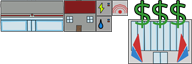
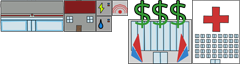
Ajout d'une texture pour l'hopital.

diff --git a/CityBuilderJSFML/src/sim/Sim.java b/CityBuilderJSFML/src/sim/Sim.java
@@ -239,6 +239,7 @@ public class Sim {
 		this.buildingRenderer.setTextureRect(BuildingType.HYDROLIC_STATION, new FloatRect(96.f, 16.f, 16.f, 16.f));
 		this.buildingRenderer.setTextureRect(BuildingType.ANTENNA_4G, new FloatRect(112.f, 0.f, 16.f, 16.f));
 		this.buildingRenderer.setTextureRect(BuildingType.CASINOS, new FloatRect(128.f, 0.f, 64.f, 64.f));
+		this.buildingRenderer.setTextureRect(BuildingType.HOSPITAL, new FloatRect(192.f, 0.f, 48.f, 64.f));
 		
 		// The stack of the maps which contains the required buildings of everyone.
 		this.buildingStackRequired = new Stack<Map<Integer, Building.BuildingType>>();

diff --git a/CityBuilderJSFML/src/graphics/BuildingRenderer.java b/CityBuilderJSFML/src/graphics/BuildingRenderer.java
@@ -34,6 +34,7 @@ public class BuildingRenderer implements Drawable {
 			case HYDROLIC_STATION:
 			case ANTENNA_4G:
 			case CASINOS:
+			case HOSPITAL:
 				return true;
 			default:
 				return false;
